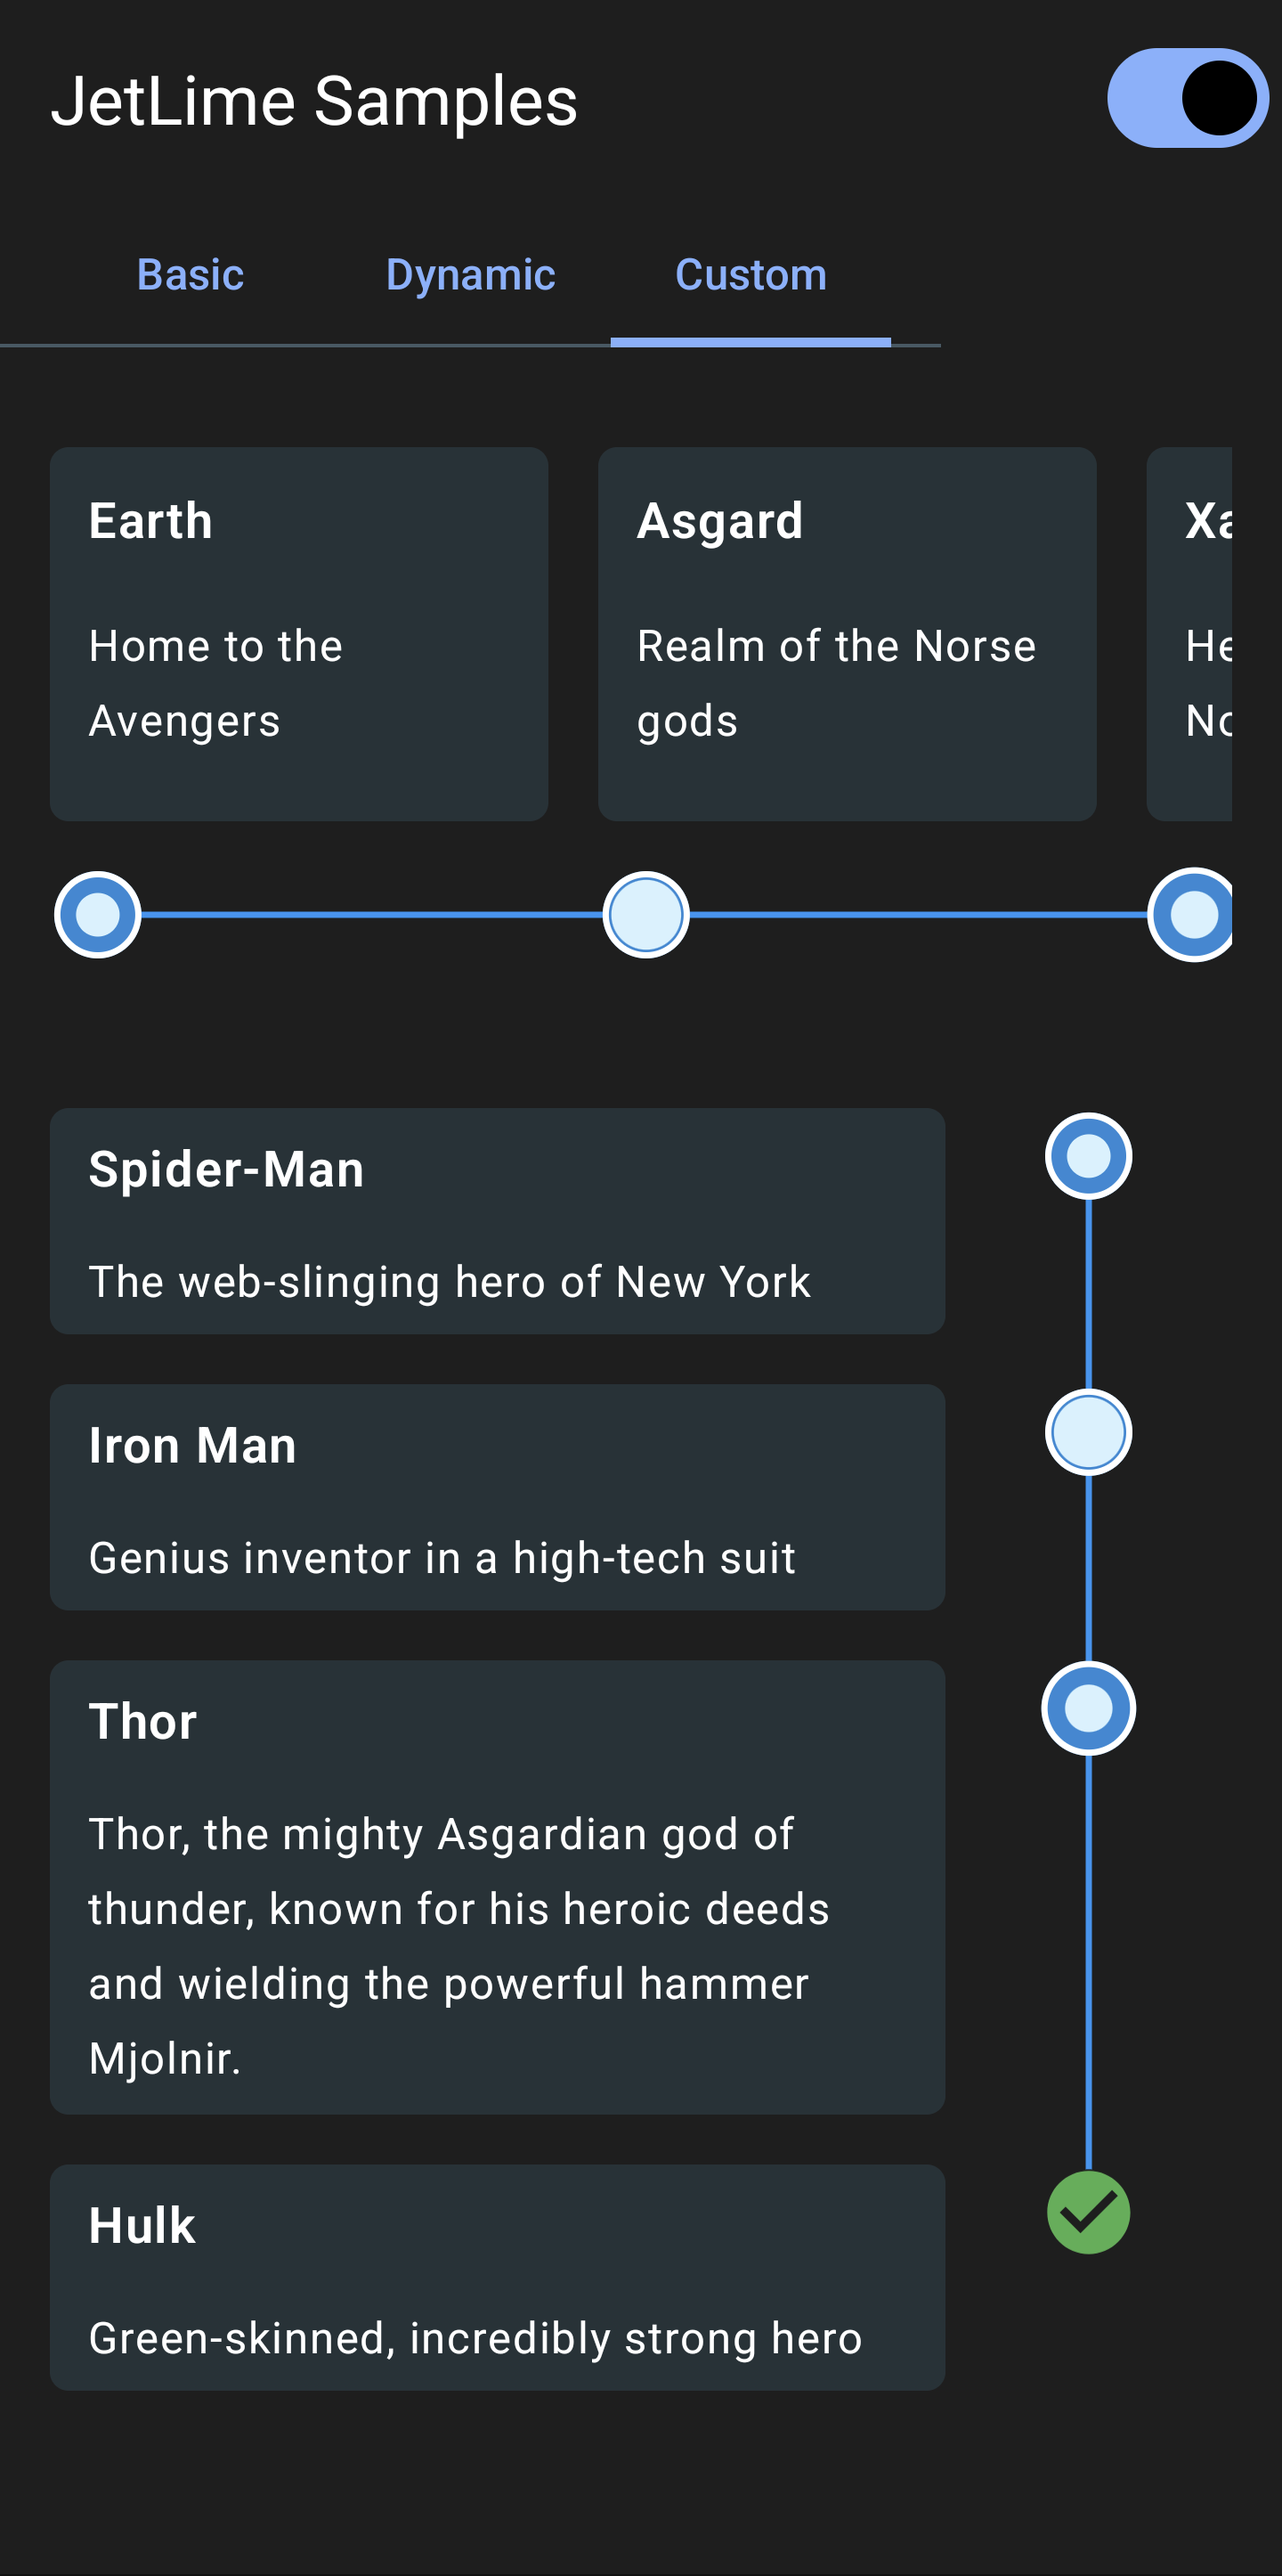
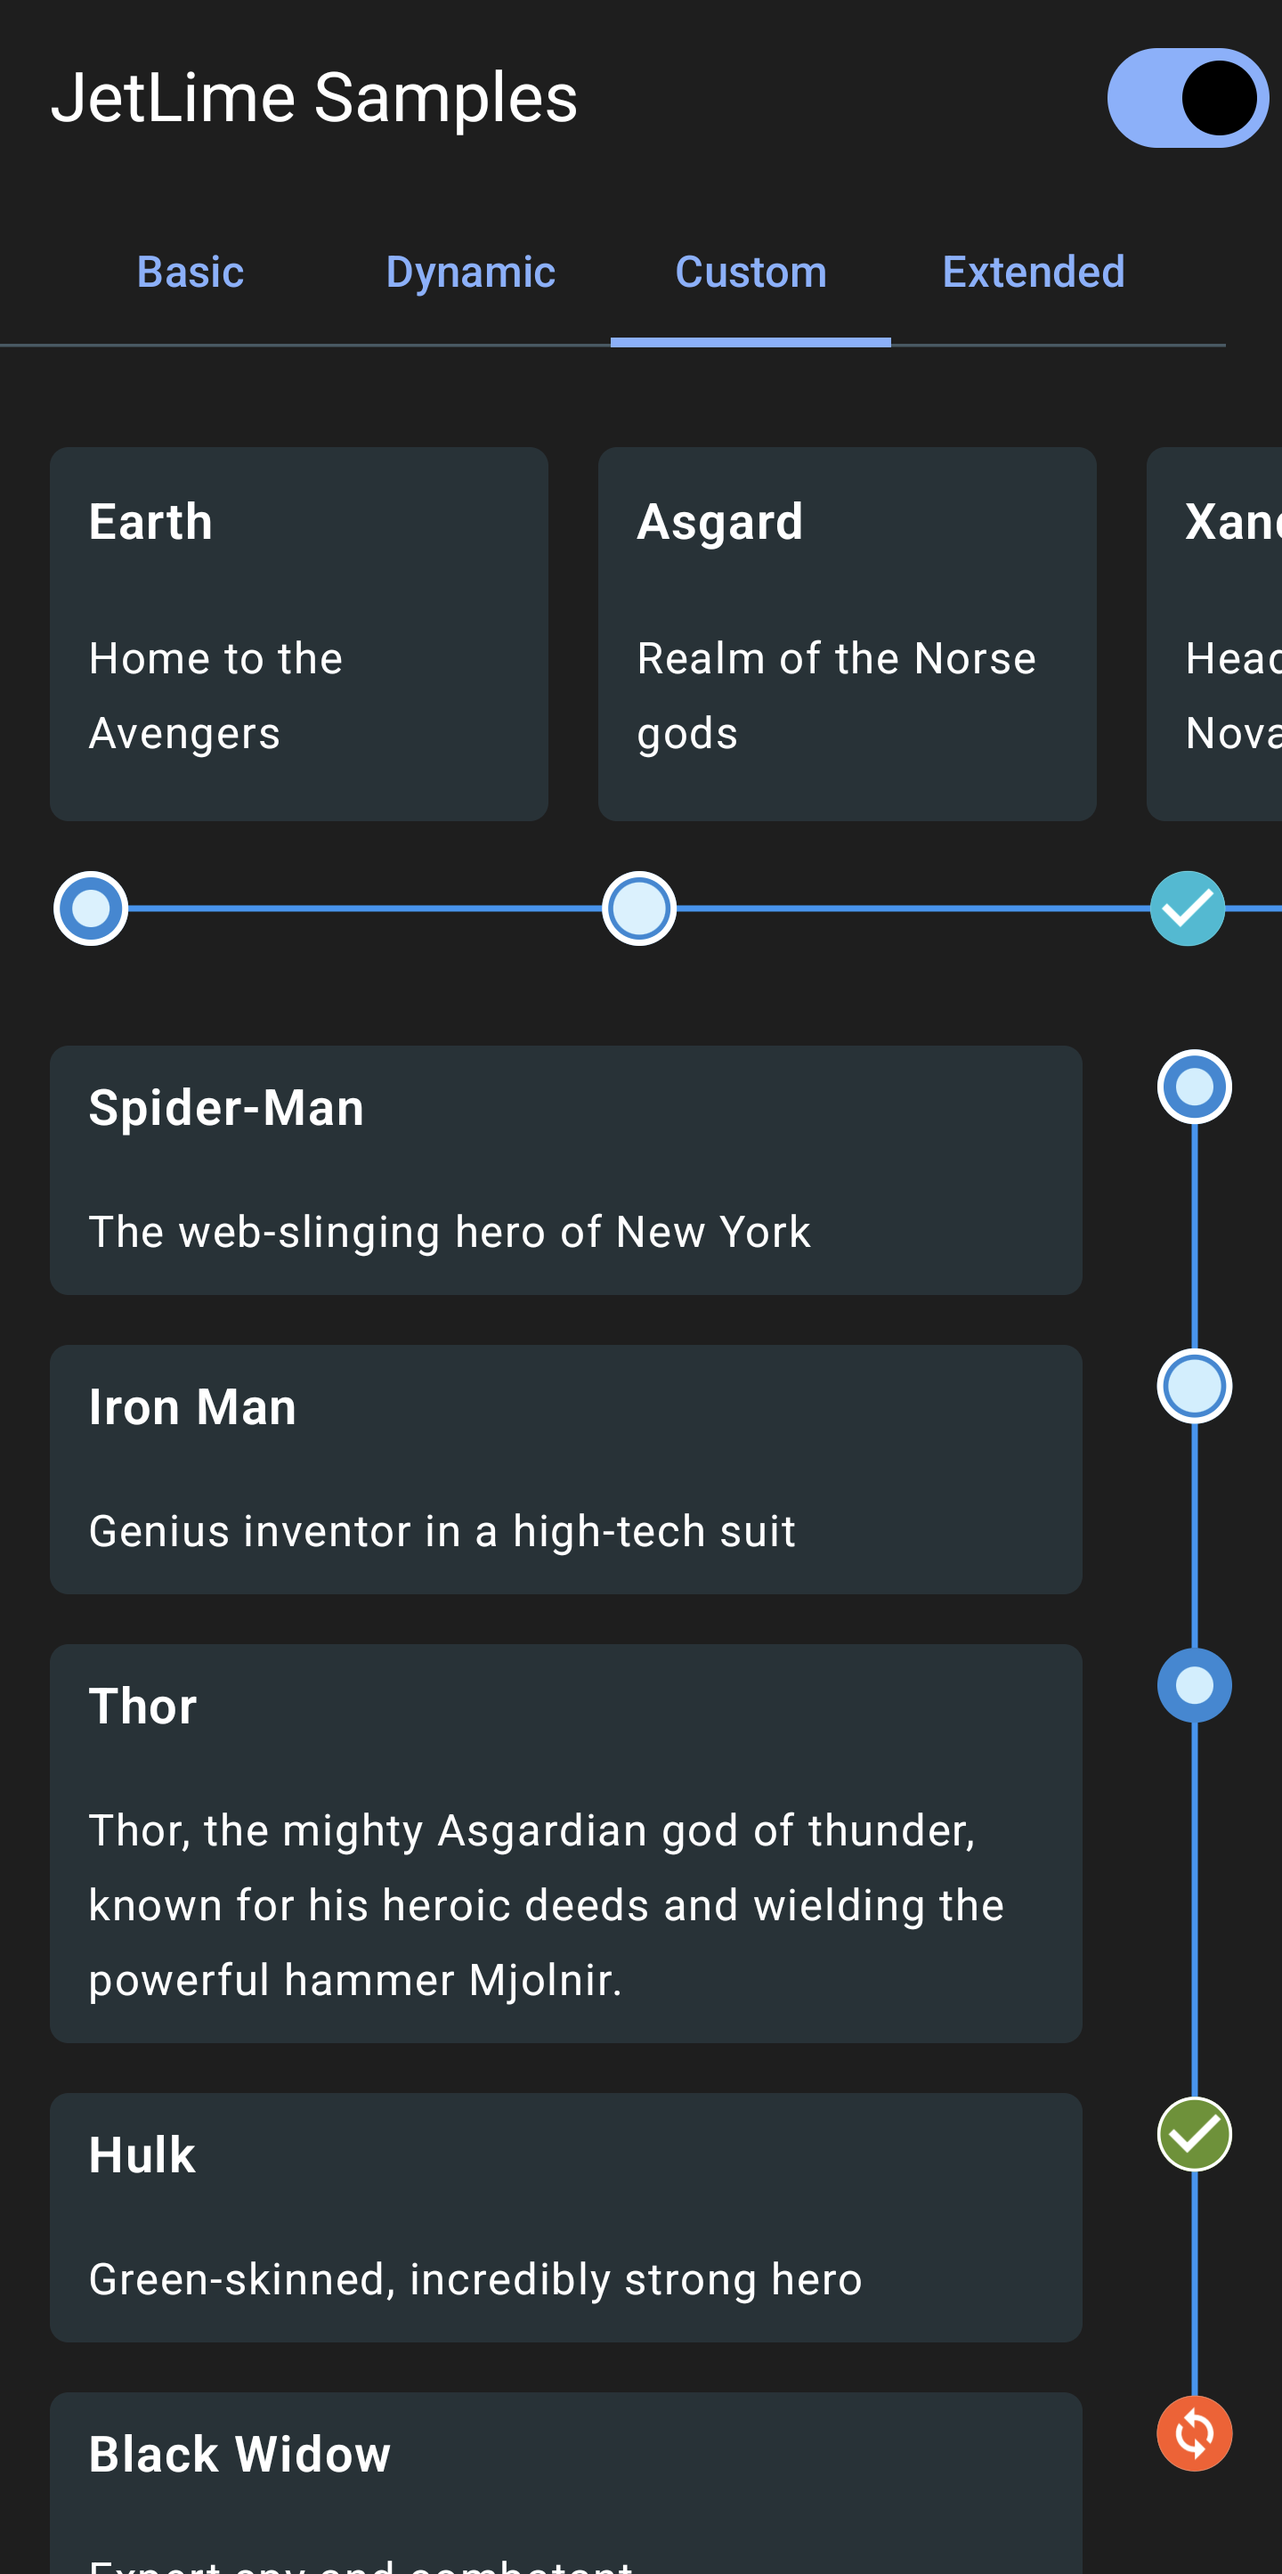
[doc] update readme screenshots

diff --git a/app/src/main/java/com/pushpal/jetlime/ui/timelines/CustomizedVerticalTimeLine.kt b/app/src/main/java/com/pushpal/jetlime/ui/timelines/CustomizedVerticalTimeLine.kt
@@ -42,7 +42,7 @@ import com.pushpal.jetlime.JetLimeColumn
 import com.pushpal.jetlime.JetLimeDefaults
 import com.pushpal.jetlime.JetLimeEvent
 import com.pushpal.jetlime.JetLimeEventDefaults
-import com.pushpal.jetlime.VerticalAlignment.LEFT
+import com.pushpal.jetlime.VerticalAlignment.RIGHT
 import com.pushpal.jetlime.sample.R
 import com.pushpal.jetlime.ui.data.getCharacters
 import com.pushpal.jetlime.ui.timelines.event.VerticalEventContent
@@ -64,7 +64,7 @@ fun CustomizedVerticalTimeLine(modifier: Modifier = Modifier) {
         itemSpacing = 16.dp,
         lineThickness = 2.dp,
         lineBrush = JetLimeDefaults.lineSolidBrush(color = Color(0xFF2196F3)),
-        lineVerticalAlignment = LEFT,
+        lineVerticalAlignment = RIGHT,
       ),
     ) { index, item, position ->
       JetLimeEvent(
